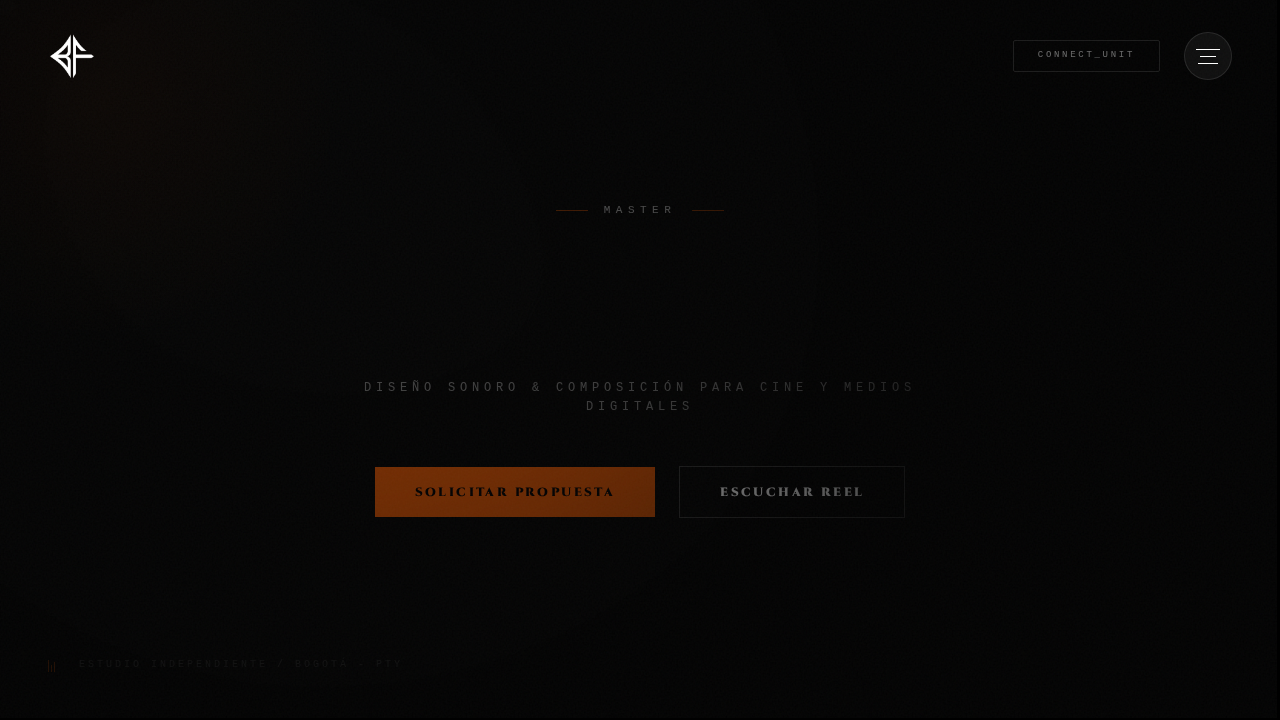
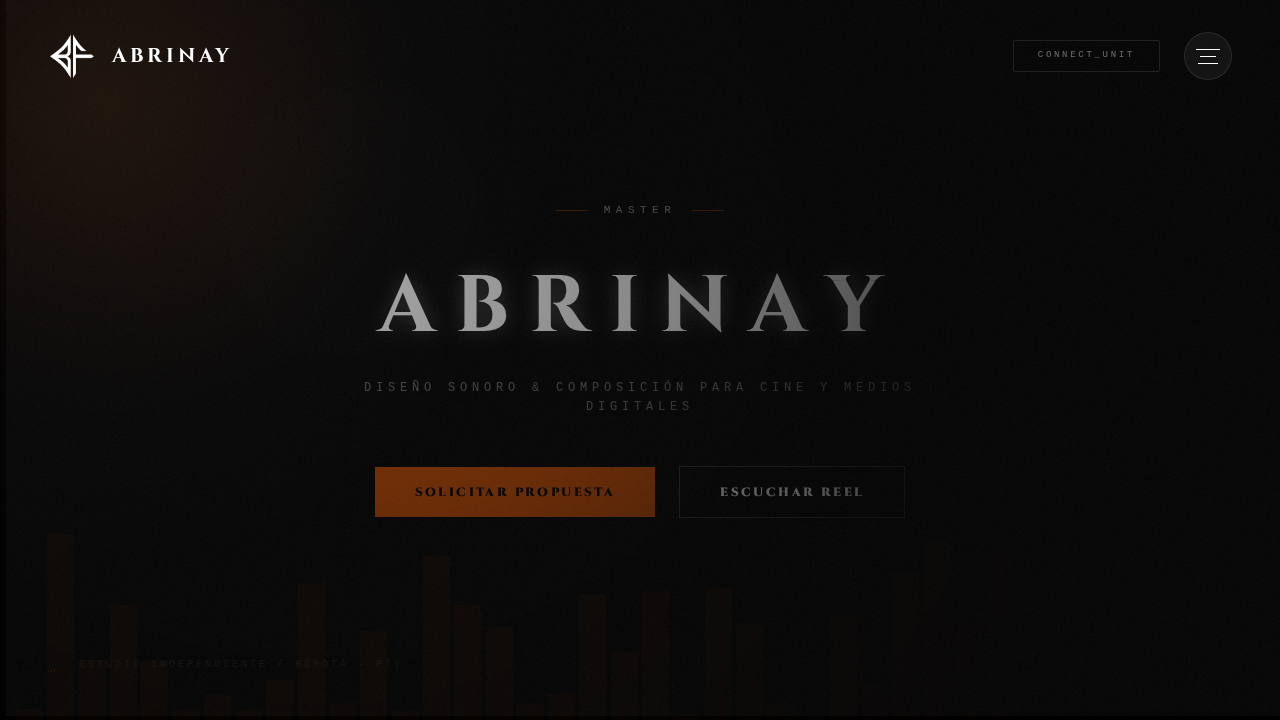
feat: optimize desktop animation performance and enhance cinematic visuals
- Decoupled mouse tracking from React state using requestAnimationFrame and CSS variables.
- Refactored ProjectCard to use refs and direct DOM manipulation for hover effects.
- Optimized Hero audio bars using GPU-accelerated transforms and reduced bar count.
- Intensified noise and spotlight effects for a punchier 'Brutalist Cinematic' look.
- Added proper cleanup for animation frames and fixed TypeScript event types.

Changed region(s): [[0.2812, 0.3667, 0.625, 0.4583], [0.625, 0.3667, 0.6875, 0.4583], [0.0938, 0.0611, 0.1875, 0.0917]]

diff --git a/index.html b/index.html
@@ -107,9 +107,10 @@
           height: 100%;
           pointer-events: none;
           z-index: 50;
-          opacity: 0.08;
+          opacity: 0.12;
           background-image: url("https://grainy-gradients.vercel.app/noise.svg");
           animation: noise-flicker 0.2s infinite steps(4);
+          will-change: transform;
       }
 
       @keyframes noise-flicker {
@@ -124,19 +125,22 @@
           position: fixed;
           inset: 0;
           background:
-            radial-gradient(circle at var(--mouse-x) var(--mouse-y), transparent 0%, rgba(0,0,0,0.8) 80%),
+            radial-gradient(circle at var(--mouse-x) var(--mouse-y), transparent 0%, rgba(0,0,0,0.9) 85%),
             radial-gradient(circle at center, transparent 0%, rgba(0,0,0,0.4) 100%);
           pointer-events: none;
           z-index: 5;
-          transition: background 0.15s ease-out;
+          will-change: background;
       }
 
       .spotlight {
           position: fixed;
           inset: 0;
-          background: radial-gradient(600px circle at var(--mouse-x) var(--mouse-y), rgba(204, 78, 0, 0.05), transparent 40%);
+          background:
+            radial-gradient(400px circle at var(--mouse-x) var(--mouse-y), rgba(204, 78, 0, 0.15), transparent 80%),
+            radial-gradient(800px circle at var(--mouse-x) var(--mouse-y), rgba(255, 255, 255, 0.03), transparent 60%);
           pointer-events: none;
           z-index: 4;
+          will-change: background;
       }
 
       .brand-reveal {
@@ -211,6 +215,11 @@
         50% { height: 12px; }
       }
 
+      @keyframes sound-wave-hero {
+        0%, 100% { transform: scaleY(0.05); }
+        50% { transform: scaleY(1); }
+      }
+
       /* Scroll Reveal */
       .reveal {
         opacity: 0;
@@ -262,12 +271,18 @@
     <div id="root"></div>
     <script type="module" src="/index.tsx"></script>
     <script>
+      let rafId = null;
       document.addEventListener('mousemove', (e) => {
-        const x = (e.clientX / window.innerWidth) * 100;
-        const y = (e.clientY / window.innerHeight) * 100;
-        document.documentElement.style.setProperty('--mouse-x', x + '%');
-        document.documentElement.style.setProperty('--mouse-y', y + '%');
-      });
+        if (rafId) {
+          cancelAnimationFrame(rafId);
+        }
+        rafId = requestAnimationFrame(() => {
+          const x = (e.clientX / window.innerWidth) * 100;
+          const y = (e.clientY / window.innerHeight) * 100;
+          document.documentElement.style.setProperty('--mouse-x', x.toFixed(2) + '%');
+          document.documentElement.style.setProperty('--mouse-y', y.toFixed(2) + '%');
+        });
+      }, { passive: true });
     </script>
 </body>
 </html>

diff --git a/components/Catalog.tsx b/components/Catalog.tsx
@@ -1,18 +1,31 @@
 
-import React, { useState, useRef, MouseEvent } from 'react';
+import React, { useState, useRef, useEffect } from 'react';
 import { Category } from '../types';
 import { PROJECTS, SPOTIFY_LINKS } from '../content/siteContent';
 
 const ProjectCard: React.FC<{ project: any }> = ({ project }) => {
   const cardRef = useRef<HTMLDivElement>(null);
-  const [mousePos, setMousePos] = useState({ x: 0, y: 0 });
+  const rafId = useRef<number | null>(null);
 
-  const handleMouseMove = (e: MouseEvent) => {
+  useEffect(() => {
+    return () => {
+      if (rafId.current) cancelAnimationFrame(rafId.current);
+    };
+  }, []);
+
+  const handleMouseMove = (e: React.MouseEvent) => {
     if (cardRef.current) {
+      if (rafId.current) cancelAnimationFrame(rafId.current);
+
       const rect = cardRef.current.getBoundingClientRect();
-      setMousePos({
-        x: e.clientX - rect.left,
-        y: e.clientY - rect.top,
+      const x = e.clientX - rect.left;
+      const y = e.clientY - rect.top;
+
+      rafId.current = requestAnimationFrame(() => {
+        if (cardRef.current) {
+          cardRef.current.style.setProperty('--x', `${x}px`);
+          cardRef.current.style.setProperty('--y', `${y}px`);
+        }
       });
     }
   };
@@ -25,9 +38,9 @@ const ProjectCard: React.FC<{ project: any }> = ({ project }) => {
       className="group relative flex flex-col glass-card p-4 rounded-sm reveal overflow-hidden"
     >
       <div
-        className="absolute inset-0 z-0 pointer-events-none opacity-0 group-hover:opacity-100 transition-opacity duration-300"
+        className="absolute inset-0 z-0 pointer-events-none opacity-0 group-hover:opacity-100 transition-opacity duration-300 will-change-[background]"
         style={{
-          background: `radial-gradient(600px circle at ${mousePos.x}px ${mousePos.y}px, rgba(204, 78, 0, 0.08), transparent 40%)`
+          background: `radial-gradient(600px circle at var(--x, 50%) var(--y, 50%), rgba(204, 78, 0, 0.15), transparent 40%)`
         }}
       ></div>
 

diff --git a/components/Hero.tsx b/components/Hero.tsx
@@ -6,16 +6,16 @@ const Hero: React.FC = () => {
   return (
     <div className="relative h-screen flex flex-col items-center justify-center overflow-hidden bg-[#050505]">
       {/* Background Ambience */}
-      <div className="absolute inset-0 z-0 overflow-hidden pointer-events-none opacity-[0.1]">
-        <div className="absolute bottom-0 left-0 w-full h-64 flex items-end justify-around px-4 gap-[4px]">
-          {[...Array(60)].map((_, i) => (
+      <div className="absolute inset-0 z-10 overflow-hidden pointer-events-none opacity-[0.15]">
+        <div className="absolute bottom-0 left-0 w-full h-64 flex items-end justify-around px-4 gap-[2px] md:gap-[4px]">
+          {[...Array(40)].map((_, i) => (
             <div 
               key={i} 
-              className="w-full bg-[#cc4e00]/40" 
+              className="w-full bg-[#cc4e00]/60 will-change-transform origin-bottom"
               style={{ 
-                height: `${Math.random() * 80}%`,
-                animation: `sound-wave ${2 + Math.random()}s infinite ease-in-out`,
-                animationDelay: `${i * 0.05}s`
+                height: `${20 + Math.random() * 60}%`,
+                animation: `sound-wave-hero ${1.5 + Math.random() * 2}s infinite ease-in-out`,
+                animationDelay: `${i * 0.08}s`
               }}
             ></div>
           ))}
@@ -23,11 +23,11 @@ const Hero: React.FC = () => {
       </div>
 
       <div className="absolute inset-0 z-0">
-        <div className="absolute inset-0 bg-[#050505]/95 z-10"></div>
+        <div className="absolute inset-0 bg-[#050505]/90 z-10"></div>
         <img 
           src="https://images.unsplash.com/photo-1478720568477-152d9b164e63?q=80&w=2000&auto=format&fit=crop" 
           alt="Atmosphere" 
-          className="w-full h-full object-cover grayscale opacity-10 transition-transform duration-[30s] hover:scale-110"
+          className="w-full h-full object-cover grayscale opacity-20 transition-transform duration-[30s]"
           fetchPriority="high"
         />
       </div>

diff --git a/verification/final_visual_check.spec.ts b/verification/final_visual_check.spec.ts
@@ -1,0 +1,23 @@
+import { test, expect } from '@playwright/test';
+
+test('verify animations and effects', async ({ page }) => {
+  await page.goto('http://localhost:3001/Abrinay-portafolio/');
+
+  // Wait for brand reveal
+  await page.waitForTimeout(2000);
+
+  // Capture Hero
+  await page.screenshot({ path: 'verification/hero_final.png' });
+
+  // Hover over a project card in Catalog
+  const catalog = page.locator('section#catalog, div:has-text("Obras & Catálogo")').first();
+  await catalog.scrollIntoViewIfNeeded();
+  await page.waitForTimeout(1000);
+
+  const card = page.locator('article.glass-card').first();
+  await card.hover();
+  await page.mouse.move(100, 100); // Trigger spotlight movement
+  await page.waitForTimeout(500);
+
+  await page.screenshot({ path: 'verification/catalog_hover_final.png' });
+});

diff --git a/verification/qa_checklist.spec.ts b/verification/qa_checklist.spec.ts
@@ -1,7 +1,7 @@
 
 import { test, expect } from '@playwright/test';
 
-const URL = 'http://localhost:3002/Abrinay-portafolio/';
+const URL = 'http://localhost:3001/Abrinay-portafolio/';
 
 test.describe('QA Integral - Fase 14', () => {
 
